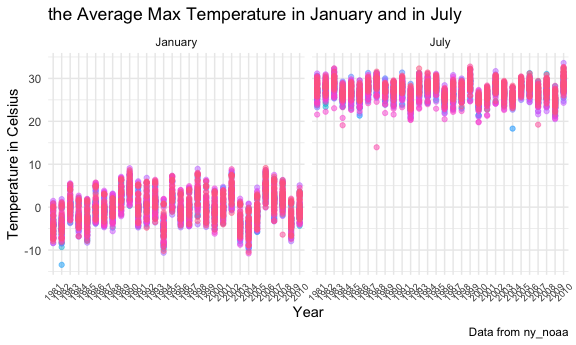
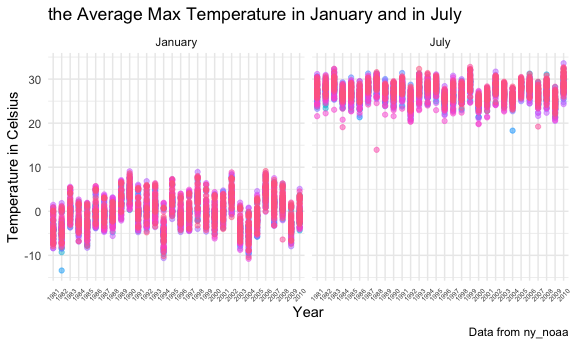
modify

diff --git a/p8105_hw3_sz2872.md b/p8105_hw3_sz2872.md
@@ -114,15 +114,24 @@ instacart %>%
         names_from = order_dow,
         values_from = mean_hour
     ) %>% 
+  rename(
+    "Sunday" = '0',
+    "Monday" = '1', 
+    "Tuesday" = '2', 
+    "Wednesday" = '3', 
+    "Thursday" = '4', 
+    "Friday" = '5', 
+    "Saturday" = '6'
+  ) %>% 
   knitr::kable()
 ```
 
     ## `summarise()` regrouping output by 'product_name' (override with `.groups` argument)
 
-| product\_name    |        0 |        1 |        2 |        3 |        4 |        5 |        6 |
-| :--------------- | -------: | -------: | -------: | -------: | -------: | -------: | -------: |
-| Coffee Ice Cream | 13.77419 | 14.31579 | 15.38095 | 15.31818 | 15.21739 | 12.26316 | 13.83333 |
-| Pink Lady Apples | 13.44118 | 11.36000 | 11.70213 | 14.25000 | 11.55172 | 12.78431 | 11.93750 |
+| product\_name    |   Sunday |   Monday |  Tuesday | Wednesday | Thursday |   Friday | Saturday |
+| :--------------- | -------: | -------: | -------: | --------: | -------: | -------: | -------: |
+| Coffee Ice Cream | 13.77419 | 14.31579 | 15.38095 |  15.31818 | 15.21739 | 12.26316 | 13.83333 |
+| Pink Lady Apples | 13.44118 | 11.36000 | 11.70213 |  14.25000 | 11.55172 | 12.78431 | 11.93750 |
 
 # Problem 2
 
@@ -295,7 +304,7 @@ ny_noaa_df %>%
   ggplot(aes(x = year, y = tmax_mean, color = id, group = id)) +
   geom_point(alpha = 0.5) +
   facet_grid(. ~ month) +
-  theme(axis.text.x = element_text(angle = 45, hjust = 0.5, vjust = 0.5,size = 7),
+  theme(axis.text.x = element_text(angle = 45, hjust = 0.5, vjust = 0.5,size = 5), 
         legend.position = "none") +
   labs(
     title = "the Average Max Temperature in January and in July",
@@ -341,9 +350,7 @@ snowfall_distribution =
     x = "Snowfall in mm", 
     y = "Years"
   )
-```
 
-``` r
 tmin_vs_tmax + snowfall_distribution
 ```
 
@@ -353,4 +360,4 @@ tmin_vs_tmax + snowfall_distribution
 
     ## Picking joint bandwidth of 3.76
 
-<img src="p8105_hw3_sz2872_files/figure-gfm/unnamed-chunk-13-1.png" width="90%" />
+<img src="p8105_hw3_sz2872_files/figure-gfm/unnamed-chunk-12-1.png" width="90%" />
